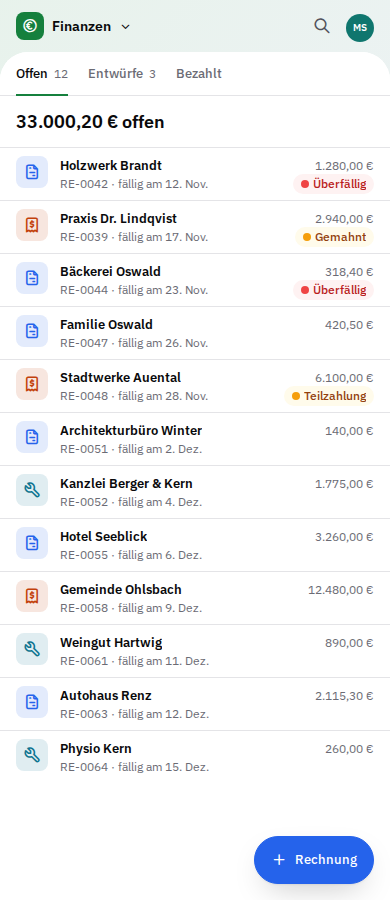
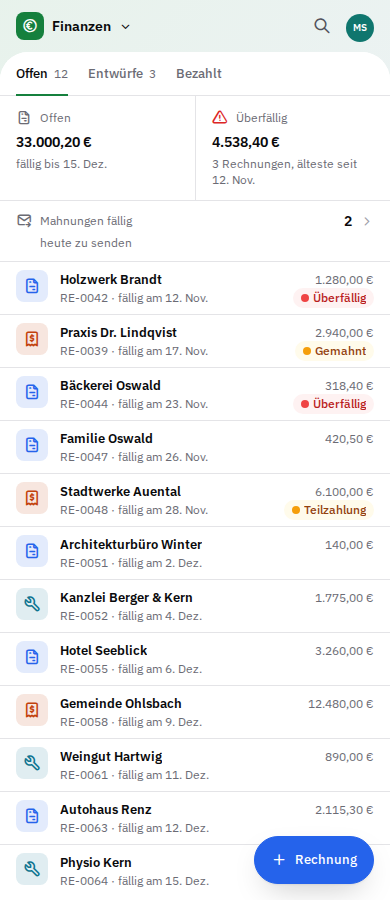
feat(ui): recipes read like a dense console: the settings page names itself, the form ends with its deeds, the table leads with one strip of key figures

Changed region(s): [[0.0308, 0.1244, 0.9538, 0.9956], [0.7385, 0.5289, 0.9538, 0.9022]]

diff --git a/packages/ui/skills/k2b-ui/recipes/settings.tsx b/packages/ui/skills/k2b-ui/recipes/settings.tsx
@@ -1,17 +1,16 @@
 // Recipe: settings with more than text, as `Setting` rows: the name and a quiet hint on the left, the value beside them
 // in one column, so the page reads at a glance. A setting the operator fixed is a dimmed control with the reason in its
 // hint, and a changed one says what it was; the page saves as a whole.
-// Lists of values are tags, a logo an image, a colour a colour, a share a slider, a code from another device a code. A
-// side column answers the questions and shows who changed what. The values live in the app; the primitives only show them.
+// Lists of values are tags, a logo an image, a colour a colour, a share a slider. The head names the page and what it is
+// for; a side column shows who changed what. The values live in the app; the primitives only show them.
 import {
   Bar,
   Button,
   Chip,
-  CodeInput,
   ColorInput,
   Digest,
-  Disclosure,
   ImageInput,
+  Inline,
   Nav,
   Pane,
   Section,
@@ -69,13 +68,21 @@ export default function SignInPageSettings(props: Props) {
       }
       head={
         <Bar
-          // the page is the sidebar's open entry; the head says only what is unsaved
-          start={changes > 0 ? <Chip yours>{`${changes} Änderungen`}</Chip> : undefined}
+          // the page's title and in one line what it is for; then what is unsaved
+          start={
+            <Inline>
+              <Text type="lead">Anmeldeseite</Text>
+              <Text type="meta">Was Personen sehen, bevor sie sich anmelden</Text>
+              {changes > 0 && <Chip yours>{`${changes} Änderungen`}</Chip>}
+            </Inline>
+          }
           end={
             <>
               <Button href="#" disabled={changes === 0}>
                 Verwerfen
               </Button>
+              {/* k2b-ui gap: a footer Bar that stays at the pane's bottom while there are changes; until then the
+                  page's one primary stands in the head, where a long page keeps it in reach */}
               {/* the page's one primary while there is something to save; with nothing changed it waits, dimmed */}
               <Button
                 variant={changes > 0 && !props.locked ? "primary" : "secondary"}
@@ -125,14 +132,9 @@ export default function SignInPageSettings(props: Props) {
               <Slider value={0.3} min={0} max={0.8} step={0.05} format={{ style: "percent" }} disabled={props.locked} />
             </Setting>
           </Section>
-          <Section icon="devices" title="Gerät koppeln">
-            <Setting name="code" label="Code vom anderen Gerät" hint="Sechs Ziffern, sie gelten fünf Minuten.">
-              <CodeInput autocomplete="off" disabled={props.locked} />
-            </Setting>
-          </Section>
         </Pane>
-        {/* the side column only while it is full: who changed what, and the questions people ask here */}
-        <Pane side label="Hilfe und Verlauf" width={{ min: 280, default: 320 }}>
+        {/* the side column only while it is full: who changed what */}
+        <Pane side label="Verlauf" width={{ min: 280, default: 320 }}>
           <Section icon="history" title="Zuletzt geändert" more={{ label: "Protokoll", forward: true }}>
             <Digest
               label="Zuletzt geändert"
@@ -157,14 +159,6 @@ export default function SignInPageSettings(props: Props) {
                 },
               ]}
             />
-          </Section>
-          <Section icon="help" title="Fragen">
-            <Disclosure title="Was passiert mit laufenden Sitzungen?">
-              <Text type="body">Sie gelten bis zu ihrem Ende weiter. Eine kürzere Dauer greift bei der nächsten Anmeldung.</Text>
-            </Disclosure>
-            <Disclosure title="Wer darf diese Einstellungen ändern?">
-              <Text type="body">Personen mit der Rolle „Verwaltung“. Das Verfahren legt nur der Betreiber fest.</Text>
-            </Disclosure>
           </Section>
         </Pane>
       </Pane.Split>

diff --git a/packages/ui/skills/k2b-ui/recipes/table.tsx b/packages/ui/skills/k2b-ui/recipes/table.tsx
@@ -1,8 +1,8 @@
-// Recipe: a table of things with a face. The status row says what matters today with a number and toned chips; each
-// row leads with the thing's mark, shows the person in charge as an avatar and its state as colour, symbol and word.
+// Recipe: a table of things with a face. One strip of key figures says what matters today (`Cells`); each row leads
+// with the thing's mark, shows the person in charge as an avatar and its state as colour, symbol and word.
 // Each row opens its invoice and, when it is overdue, has one deed; on the phone the table becomes two-line rows with the same mark.
-// Empty, loading and failed stand where the rows would stand, and nothing above them moves (see `states` at the end).
-import { Bar, Button, Chip, Failed, Input, Nav, Pane, StatusRow, Table, Tabs, Workspace } from "@k2b/ui/v2";
+// Empty, loading and failed stand where the rows would stand (see `states` at the end).
+import { Bar, Button, Cells, Chip, Failed, Input, Nav, Pane, Table, Tabs, Workspace } from "@k2b/ui/v2";
 
 // The app this screen belongs to: its colour tints the page and marks it in the host's rail.
 export const app = { name: "Finanzen", color: "#15803d", icon: "coin-euro" };
@@ -151,24 +151,36 @@ export default function OpenInvoices(props: Props) {
       }
       primary={{ label: "Rechnung", icon: "plus" }}
     >
-      <Pane
-        label="Offene Rechnungen"
-        status={
-          <StatusRow
-            lead={props.failed ? "Nicht geladen" : props.loading ? "Wird geladen" : ready() ? "33.000,20 € offen" : "Alles bezahlt"}
-            filters={
-              ready() ? (
-                <>
-                  <Chip status="bad">3 überfällig · 4.538,40 €</Chip>
-                  <Chip yours icon="mail-forward">
-                    2 Mahnungen fällig
-                  </Chip>
-                </>
-              ) : undefined
-            }
-          />
-        }
-      >
+      <Pane label="Offene Rechnungen">
+        {/* the key figures as one strip above the table: what is open, what is late, what to send today; the count
+            of invoices stands once, in the tab. A failed load shows no figures, they are data too. */}
+        {!props.failed && (
+          <Cells>
+            <Cells.Cell
+              icon="file-invoice"
+              label="Offen"
+              value={ready() ? "33.000,20 €" : "0,00 €"}
+              meta={ready() ? "fällig bis 15. Dez." : "nichts offen"}
+              loading={props.loading}
+            />
+            <Cells.Cell
+              icon="alert-triangle"
+              color="#dc2626"
+              label="Überfällig"
+              value={ready() ? "4.538,40 €" : "0,00 €"}
+              meta={ready() ? "3 Rechnungen, älteste seit 12. Nov." : undefined}
+              loading={props.loading}
+            />
+            <Cells.Cell
+              icon="mail-forward"
+              label="Mahnungen fällig"
+              value={ready() ? "2" : "keine"}
+              meta={ready() ? "heute zu senden" : undefined}
+              href={ready() ? "#mahnungen" : undefined}
+              loading={props.loading}
+            />
+          </Cells>
+        )}
         {props.failed ? (
           <Failed text="Die Rechnungen konnten nicht geladen werden. Es wurde nichts geändert." onRetry={() => location.reload()} />
         ) : (

diff --git a/packages/ui/skills/k2b-ui/recipes/form.tsx b/packages/ui/skills/k2b-ui/recipes/form.tsx
@@ -68,7 +68,7 @@ export default function SourceForm(props: Props) {
   const conflict = props.conflict ?? true;
   return (
     <Workspace
-      primary={{ label: "Speichern", icon: "check", disabled: conflict || props.saving }}
+      // the form's footer holds its one primary, on the phone too; a floating "Speichern" would say it twice
       sidebar={
         <Nav
           title="Pulse"
@@ -100,15 +100,6 @@ export default function SourceForm(props: Props) {
               <Mark {...(values.kind === "Webhook" ? kind.webhook : kind.poll)} />
               <Path label="Ort" items={[{ label: "Quellen", href: "#quellen" }, { label: values.name || "Neue Quelle" }]} />
             </Inline>
-          }
-          end={
-            <>
-              <Button href="#">Abbrechen</Button>
-              {/* the one primary of the page: dimmed while the conflict lasts, turning while the save runs */}
-              <Button variant="primary" type="submit" disabled={conflict} busy={props.saving}>
-                Speichern
-              </Button>
-            </>
           }
         />
       }
@@ -159,6 +150,18 @@ export default function SourceForm(props: Props) {
                 ]}
               />
             </Section>
+            {/* the form ends with its deeds: cancel, then the page's one primary, dimmed while the conflict lasts and
+                turning while the save runs */}
+            <Bar
+              end={
+                <>
+                  <Button href="#">Abbrechen</Button>
+                  <Button variant="primary" type="submit" disabled={conflict} busy={props.saving}>
+                    Speichern
+                  </Button>
+                </>
+              }
+            />
           </Pane>
           {/* the side column only while it is full: what the source feeds, and who changed it */}
           <Pane side label="Was sie liefert" width={{ min: 280, default: 340 }}>

diff --git a/packages/ui/skills/k2b-ui/references/recipes.md b/packages/ui/skills/k2b-ui/references/recipes.md
@@ -95,13 +95,14 @@ charge, the latest events as rows with marks, and who changed it as
 ![form at 1440 px](../images/form-1440.png)
 ![form at 390 px](../images/form-390.png)
 
-A `Path` with the thing's mark in the head and "Abbrechen" with the one
-primary "Speichern" at its end (mirrored as `Workspace primary`), disabled
-while the conflict lasts; `Notice tone="warn"` for a conflict that blocks
-saving; `Section`s of `Field`s (`Field.Row` for fields side by side); a
-server error goes into the `error` of its field; `Choice` and `Check
-switch` for options; a `Pane side` with what the thing feeds (rows with
-marks and a state chip) and who changed it (`Digest activity`).
+A `Path` with the thing's mark in the head; `Notice tone="warn"` for a
+conflict that blocks saving; `Section`s of `Field`s (`Field.Row` for
+fields side by side); a server error goes into the `error` of its field;
+`Choice` and `Check switch` for options; the form ends with a `Bar` of
+"Abbrechen" and the one primary "Speichern", disabled while the conflict
+lasts (on the phone too, so no `Workspace primary` says it twice); a
+`Pane side` with what the thing feeds (rows with marks and a state chip)
+and who changed it (`Digest activity`).
 
 - Validation and server answers live in the app's state; the primitives
   only show `error`.
@@ -162,10 +163,11 @@ The sign-in page of an administration as `Setting` rows in `Section`s:
 a `Select` with `was` (the value before the unsaved change), a `Select`
 the operator fixed (`disabled`, the reason in the hint), allowed domains
 in a `TagsInput`, a logo in an `ImageInput`, an accent colour in a
-`ColorInput`, how dark the background is in a `Slider`, a pairing code in
-a `CodeInput`. The head says how many changes wait and holds "Verwerfen"
-and the one primary "Speichern"; a `Pane side` shows who changed what
-(`Digest activity`) and two `Disclosure`s with questions.
+`ColorInput`, how dark the background is in a `Slider`. The head names
+the page and in one line what it is for, says how many changes wait and
+holds "Verwerfen" and the one primary "Speichern" (k2b-ui gap: a footer
+that stays at the pane's bottom while there are changes); a `Pane side`
+shows who changed what (`Digest activity`).
 
 - A choice the person may not change is a dimmed control with the reason
   in its hint, not a missing one.
@@ -304,15 +306,16 @@ The head says "1 Änderung" and saves the page as a whole.
 
 - States: `saved` (nothing to save: the deeds are disabled).
 
-## table.tsx: a table with a status row
+## table.tsx: a table with key figures
 
 ![table at 1440 px](../images/table-1440.png)
 ![table at 390 px](../images/table-390.png)
 
-A `Nav` with the app's places and accounts; `StatusRow` with the lead
-("33.000,20 € offen") and toned chips at the end (overdue, reminders
-due); the count stands once, in the current tab; `Table` with widths, the invoice's `Mark` before its
-number (`Column mark`), the person in charge as `Avatar`,
+A `Nav` with the app's places and accounts; the key figures as one strip
+of `Cells` above the table (open, overdue, reminders due, each with one
+quiet line; the count stands once, in the current tab); `Table` with
+widths, the invoice's `Mark` before its number (`Column mark`), the person
+in charge as `Avatar`,
 a status `Chip`, an amount column `align: "end"`, a quiet icon button with
 its name only where the deed is due, `drop` on the columns that matter
 least, and `phone(row)` so the phone shows two-line rows instead of a cut
@@ -320,7 +323,7 @@ table. `open(row)` gives each row the address of its invoice (on the phone
 too); `empty` says "Keine offenen Rechnungen." in place of the table, and
 `loading` would hold its place while the rows load.
 
-- The lead says the one thing; the rest are facts, which leave on the phone.
+- A failed load shows no figures: they are data too.
 - On the phone the rows keep the mark, and a state that needs a person
   stays as a chip in `marks`.
 - A deed per row is a `Button` in its own last column: `variant="text"`

diff --git a/packages/ui/skills/k2b-ui/SKILL.md b/packages/ui/skills/k2b-ui/SKILL.md
@@ -121,7 +121,7 @@ import { Workspace, Pane, Bar, List, Row, Mark, Avatar } from "@k2b/ui/v2";
 | folders or pages in levels | in the sidebar a `Nav` group with `tree` (`load`, `loadMore`); in the content `Table` with `rowKey` and `tree` | `tree.tsx` |
 | views of the page, or areas of a record | `Tabs` (in the head `Bar`, or as `Pane` head) | `mail.tsx`, `record.tsx` |
 | where a sub-page stands | `Path` in the head `Bar start` | – |
-| the one main statement and key figures | `StatusRow` in `Pane status` | `table.tsx` |
+| the one main statement of a list | `StatusRow` in `Pane status` | `states.tsx`, `list-detail.tsx` |
 | many like things, one per line | `List` of `Row` | `mail.tsx` |
 | a thing with a face (a base, a file, a table, a storage) | `Mark` (`Row mark`, `Nav` item `color`, `Tiles color`) | `overview.tsx` |
 | an overview of things with figures, people and a history | `Tiles variant="card"` (+ `create` for the new one) | `overview.tsx` |
@@ -137,7 +137,7 @@ import { Workspace, Pane, Bar, List, Row, Mark, Avatar } from "@k2b/ui/v2";
 | saved views of a list | `FilterBar views` with the app's `ViewStore`s (cookie, own table, none); leave it out and nothing is saved | – |
 | a list beside the open entry | `Pane.Split` with a `Pane detail` | `list-detail.tsx` |
 | a record (customer, contact) | `RecordHead` in the head, `Tabs`, `Pane side` | `record.tsx` |
-| 2–6 key numbers side by side | `Cells` with `Cells.Cell` (`trend` for a short history, `meter` for a limit; elsewhere `Spark`) | `record.tsx`, `home.tsx` |
+| 2–6 key numbers side by side, one strip | `Cells` with `Cells.Cell` (`trend` for a short history, `meter` for a limit; elsewhere `Spark`) | `table.tsx`, `record.tsx`, `home.tsx` |
 | a titled part of a page; parts side by side | `Section` (title, count, ≤ 2 actions, `more`); `Section.Columns` | `record.tsx`, `home.tsx` |
 | what belongs together (a delivery, a thread) | `Group`; `folded` when done | `record-groups.tsx` |
 | the way of a thing (arrived → … → paid) | `Steps` | `record-groups.tsx` |
@@ -146,9 +146,9 @@ import { Workspace, Pane, Bar, List, Row, Mark, Avatar } from "@k2b/ui/v2";
 | one statement that stands out in a column (not a message) | `Band tone` with `Text` | – |
 | something that needs this person | `Row yours` or `Chip yours` | `record-groups.tsx` |
 | a form | `Field` / `Field.Row` with `Input`, `Select`, `DateInput`, `Check`, `Choice` | `form.tsx` |
-| short values (domains), an image, a one-time code, a range, a colour | `TagsInput`, `ImageInput`, `CodeInput`, `Slider`, `ColorInput` in a `Field` or `Setting` | `settings.tsx` |
+| short values (domains), an image, a one-time code, a range, a colour | `TagsInput`, `ImageInput`, `CodeInput`, `Slider`, `ColorInput` in a `Field` or `Setting` | `settings.tsx` (all but `CodeInput`) |
 | a field that goes back to its default | `Field action` ("Auf Standard zurücksetzen"; not in a `Setting` yet) | – |
-| an answer that opens in place (a question in a FAQ) | `Disclosure` | `settings.tsx` |
+| an answer that opens in place (a question in a FAQ) | `Disclosure` | – |
 | reading text, an email body, a page of Markdown | `Prose` | `content.tsx`, `mail.tsx` |
 | attachments, media files, like things to press | `Tiles` | `content.tsx`, `mail.tsx` |
 | a state, tag, amount, count | `Chip` | `table.tsx` |

diff --git a/docs-site/src/ui/topics/lists-and-tables.md b/docs-site/src/ui/topics/lists-and-tables.md
@@ -8,7 +8,7 @@ Many things of one kind. Use a `List` when each entry reads as a line of text, a
 
 ## A table to compare
 
-Open invoices with a status row: the lead says how many, the figures follow, the filter sits at the end. Each row opens its invoice and has one deed. Switch the state: empty, loading and failed stand where the rows would stand, and nothing above them moves.
+Open invoices under one strip of key figures: what is open, what is late, which reminders are due today; the count stands once, in the tab. Each row opens its invoice and has one deed. Switch the state: empty, loading and failed stand where the rows would stand; a failed load shows no figures.
 
 <Example recipe="table" height="640" default="Rows" />
 
@@ -93,7 +93,7 @@ Reorder by dragging. Until it ships, use the nearest part and write `// k2b-ui g
 ### Do
 
 - Open an entry by `href`; add `onNavigate` to open it in place.
-- Give every wide table a `phone(row)`, and put the count and key figures in the `StatusRow`.
+- Give every wide table a `phone(row)`. Put its key figures in one strip of `Cells` above it, or its one statement in a `StatusRow`; say the count once.
 - Keep row text short (it is cut with "…"); mark numbers, amounts and times with `align: "end"` or `numeric`: they are never cut, and their column grows to the longest value.
 - Show a person in a cell as `{ avatar, lines: [name] }`, not as an `Inline` of `Avatar` and `Text`.
 

diff --git a/docs-site/src/ui/topics/forms-and-input.md b/docs-site/src/ui/topics/forms-and-input.md
@@ -25,7 +25,7 @@ Sign-in of an administration: the state first as key numbers with colour, symbol
 <Example recipe="settings-page" height="720" default="Changed" />
 ## Settings with more than text
 
-The sign-in settings of an app: a field that goes back to its default through the deed at the end of its label line, a choice the operator fixed (a dimmed `Select`), allowed domains as tags, a logo, an accent colour, how dark the background is, a code from another device, and questions that open in place. Switch the state: nothing set yet, and every control locked while a save runs or for a person who may only read.
+The sign-in page settings of an app, under a head with the page's title and in one line what it is for: a choice the operator fixed (a dimmed `Select`), allowed domains as tags, a logo, an accent colour, how dark the background is, and beside them who changed what. Switch the state: nothing set yet, and every control locked while a save runs or for a person who may only read.
 
 <Example recipe="settings" height="760" />
 

diff --git a/docs-site/src/ui/topics/screens.md b/docs-site/src/ui/topics/screens.md
@@ -26,7 +26,7 @@ Complete screens with invented data. Each one is a recipe of the skill `k2b-ui`:
 
 <Example recipe="settings-page" height="720" default="Changed" />
 
-## Table with a status row
+## Table with key figures
 
 <Example recipe="table" height="640" default="Rows" />
 
